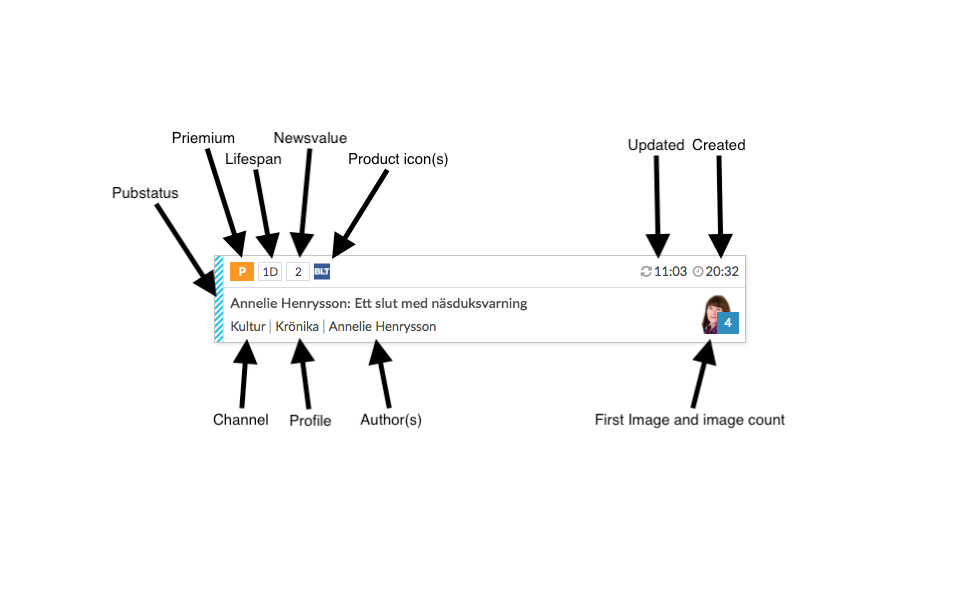
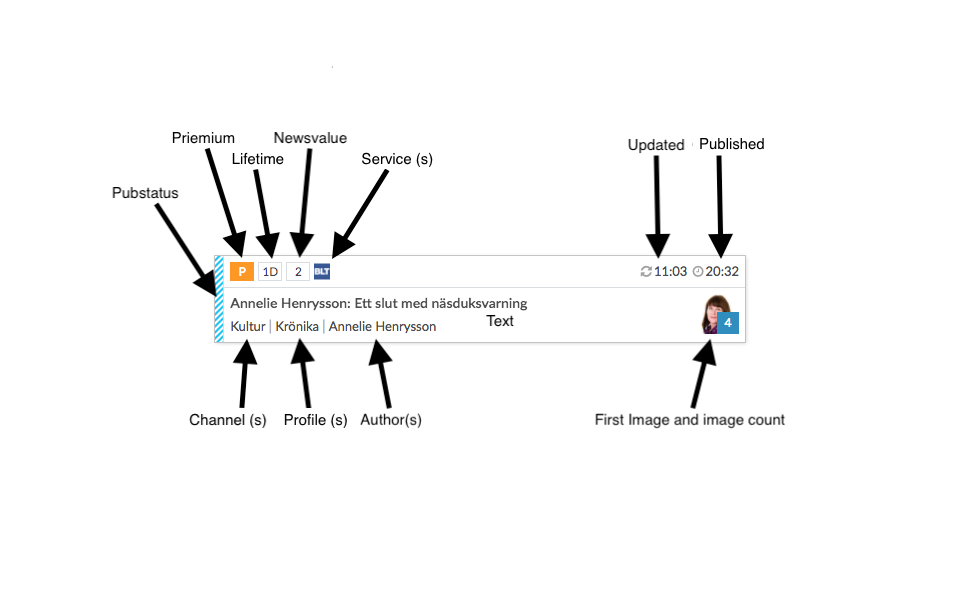
ContentRelations refactoring and name changes to streamline naming convetion

diff --git a/plugins/se.infomaker.contentrelations/components/SearchResultItemComponent.js b/plugins/se.infomaker.contentrelations/components/SearchResultItemComponent.js
@@ -46,30 +46,30 @@ class SearchResultItem extends Component {
     render($$){
         const {item, propertyMap, icons} = this.props
         const article = new ArticleModel(item, propertyMap)
-        const articleProductIcons = article.products.map(product => {
+        const articleServicesIcons = article.services.map(service => {
             let img = ''
 
-            if (product) {
-                const icon = icons.find(icon => icon.name.toLowerCase() === product.toLowerCase())
+            if (service) {
+                const icon = icons.find(icon => icon.name.toLowerCase() === service.toLowerCase())
 
                 if (icon) {
-                    img = $$('img', { class: 'article-product-icon', src: `${icon.data}`, title: this.capitalize(product) })
+                    img = $$('img', { class: 'article-service-icon', src: `${icon.data}`, title: this.capitalize(service) })
                 }
             }
 
             return img
         })
 
-        const el = $$('div', { class: `search-result-article article_status_${article.pubstatus[0]}`, title: `${article.pubstatus.length ? article.pubstatus[0] : ''}`, draggable: "true" }, [
+        const el = $$('div', { class: `search-result-article article_status_${article.pubstatus[0].replace(':', '')}`, title: `${article.pubstatus.length ? article.pubstatus[0] : ''}`, draggable: "true" }, [
 
             $$('div', { class: `search-result-article_inner has_publiched_version_${article.hasPublishedVersion[0]}` }, [
 
                 $$('div', { class: 'article-header' }, [
                     $$('div', { class: 'article-header-meta' }, [
                         (article.premium && article.premium.length && article.premium[0] === 'true') ? $$('p', { class: 'header-meta-item premium', title: this.capitalize(propertyMap['premium']) }, 'P') : '',
-                        (article.lifespan && article.lifespan.length) ? $$('p', { class: 'header-meta-item lifespan', title: this.capitalize(propertyMap['lifetime']) }, article.lifespan[0]) : '',
+                        (article.lifetime && article.lifetime.length) ? $$('p', { class: 'header-meta-item lifetime', title: this.capitalize(propertyMap['lifetime']) }, article.lifetime[0]) : '',
                         (article.newsvalue && article.newsvalue.length) ? $$('p', { class: 'header-meta-item prio', title: this.capitalize(propertyMap['newsvalue']) }, article.newsvalue[0]) : '',
-                        ...articleProductIcons
+                        ...articleServicesIcons
                     ]),
                     $$('div', { class: 'article-header-dates' }, [
                         $$('p', { class: 'article-head-date', title: `${this.capitalize(propertyMap['updated'])}: ${moment(article.updated[0]).locale(this.props.locale).format('lll')}`}, [

diff --git a/plugins/se.infomaker.contentrelations/scss/searchresultitem.scss b/plugins/se.infomaker.contentrelations/scss/searchresultitem.scss
@@ -20,19 +20,19 @@
         filter: blur(2px);
     }
 
-    &.article_status_draft{ // * Utkast: draft
+    &.article_status_draft, &.article_status_imextdraft { // * Utkast: draft
         background: #FFF; /* White */
     }
-    &.article_status_approved{ // * Godkänd: approved
+    &.article_status_approved, &.article_status_imextapproved { // * Godkänd: approved
         background: #00ab50; /* Green */
     }
-    &.article_status_done{ // * Klar: done
+    &.article_status_done, &.article_status_imextdone { // * Klar: done
         background: #ff9900; /* Orange */
     }
-    &.article_status_usable{ // * Publicera: usable
+    &.article_status_usable, &.article_status_statusable{ // * Publicera: usable
         background: #288cd0; /* Primary blue */
     }
-    &.article_status_withheld{ // * Tidspublicera: withheld
+    &.article_status_withheld, &.article_status_statwithheld{ // * Tidspublicera: withheld
         background-size: 6px 6px;
         background-image: linear-gradient(
             -45deg,
@@ -45,7 +45,7 @@
             white
         );
     }
-    &.article_status_canceled{ // * Avpublicera: canceled
+    &.article_status_canceled, &.article_status_statcanceled { // * Avpublicera: canceled
         background: #828282; /* Gray */
     }
 
@@ -82,10 +82,10 @@
                     background: #ff9900;
                     line-height: 1.6;
                 }
-                .lifespan, .prio {
+                .lifetime, .prio {
                     border: 1px solid #d9dddf;
                 }
-                .article-product-icon {
+                .article-service-icon {
                     cursor: default;
                     height: 19px;
                     width: auto;
